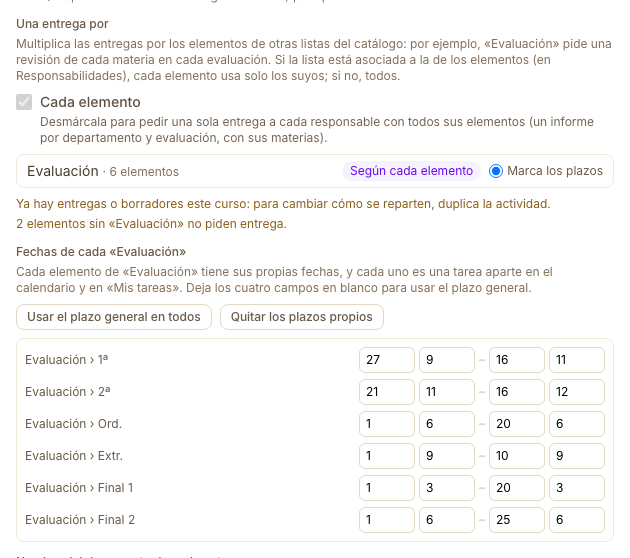
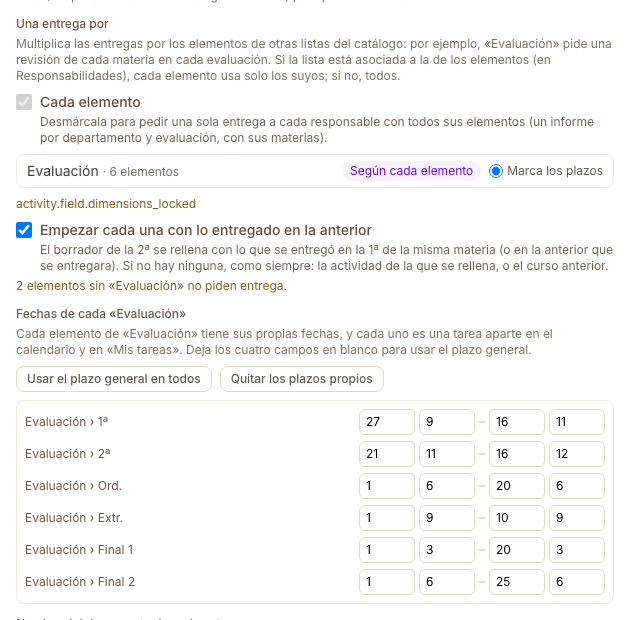
docs(activities): copia desde la evaluación anterior y tablas por evaluación en el manual, el CHANGELOG, las skills, la demo y las capturas

Changed region(s): [[0.0, 0.0305, 0.9651, 0.9749]]

diff --git a/src/Command/LoadDemoEvaluationsCommand.php b/src/Command/LoadDemoEvaluationsCommand.php
@@ -121,7 +121,7 @@ final class LoadDemoEvaluationsCommand extends Command
         ];
 
         $review = $this->reviewActivity($centre, $category, $section, $head, $subjects, $evals, $dates, $author);
-        $this->reportActivity($category, $section, $head, $subjects, $evals, $dates);
+        $this->reportActivity($category, $section, $head, $subjects, $evals, $dates, $review, $author);
         $this->minutesActivity($centre, $category, $section, $head);
         $this->em->flush();
 
@@ -171,12 +171,33 @@ final class LoadDemoEvaluationsCommand extends Command
         return $activity;
     }
 
-    /** @param array<string, array{int, int, int, int}> $dates */
-    private function reportActivity(ActivityCategory $category, DocumentSection $section, SpecificProfile $head, ListItem $subjects, ListItem $evals, array $dates): void
+    /**
+     * One per department and evaluation, filled in with the model «Informe de evaluación del departamento», whose table «Revisión de
+     * las materias» has a row per review of the department's subjects in that evaluation (their degree of compliance) and a column of
+     * its own to assess each.
+     *
+     * @param array<string, array{int, int, int, int}> $dates
+     */
+    private function reportActivity(ActivityCategory $category, DocumentSection $section, SpecificProfile $head, ListItem $subjects, ListItem $evals, array $dates, Activity $review, \App\Entity\Teacher $author): void
     {
         $folder = (new Folder())->setDocumentSection($section)->setName('Informes de evaluación de los departamentos')->setGroupByProfile(true);
         $folder->addUploadProfile($head);
         $this->em->persist($folder);
+
+        $reviewModel = $review->getFormModel() ?? throw new \LogicException('The review has no model.');
+        $model       = $this->models->create($reviewModel->getDocument()->getFolder(), 'Informe de evaluación del departamento', 'MD-10');
+        $table       = FormDefinition::newKey();
+        $this->models->saveDraft($model, ['version' => 1, 'sections' => [[
+            'key' => FormDefinition::newKey(), 'title' => 'Materias del departamento', 'numbered' => true, 'help' => '', 'children' => [],
+            'blocks' => [
+                ['key' => $table, 'type' => 'table', 'mode' => 'delivered', 'label' => 'Revisión de las materias', 'sourceModel' => $reviewModel->getId()->toRfc4122(), 'sourceScope' => 'own', 'showStatus' => true, 'columns' => [
+                    ['key' => FormDefinition::newKey(), 'label' => 'Cumplimiento (%)', 'fieldType' => 'number', 'sourceField' => 'cumplimiento', 'total' => 'avg'],
+                    ['key' => FormDefinition::newKey(), 'label' => 'Valoración del departamento', 'fieldType' => 'long'],
+                ]],
+                ['key' => FormDefinition::newKey(), 'type' => 'field', 'name' => 'conclusiones', 'fieldType' => 'long', 'label' => 'Conclusiones', 'required' => false, 'help' => ''],
+            ],
+        ]]], $model->getDraftVersion(), $author);
+        $this->models->sendToReview($model, $author, null);
 
         $activity = (new Activity())
             ->setCategory($category)
@@ -186,7 +207,9 @@ final class LoadDemoEvaluationsCommand extends Command
             ->setAutoComplete(true)
             ->setListItem($subjects)
             ->setSplitByElement(false)
+            ->setFormModel($model)
             ->setDimensions([$evals], 0);
+        $activity->setDeliverySource($table, $review);
         $this->setDates($category->getEducationalCentre(), $activity, $evals, $dates);
         $this->em->persist($activity);
     }

diff --git a/skills/screenshots.md b/skills/screenshots.md
@@ -85,7 +85,7 @@ The second centre is «CEIP Miguel Hernández» (`18700123`), empty, only so `mu
 | `capture-informes-shots.mjs` | `informes-indice`, `-cumplimiento`, `informes-pdf-*` (first PDF page via `pdftoppm`) | `04` | no |
 | `capture-plataforma-shots.mjs` | `plataforma-panel`, `-centros`, `-centro-editar`, `-docentes`, `-docente-editar`, `-suplantacion`, `plataforma-ajustes-*` (one per settings category), `plataforma-mantenimiento-{aviso,pagina,login}` | `10` | **yes, at the end**: turns maintenance mode on and puts it back off |
 | `capture-copias-shots.mjs` | `plataforma-copias`, `plataforma-copias-restaurar`, `plataforma-copias-restaurando` (the panel image `plataforma-panel` shows its card too) | `10` | **yes**: saves 5 backups in a throwaway folder and writes `var/restore/` by hand (removed at the end). Needs `APP_BACKUP_DIR` = `SHOTS_BACKUP_DIR` (an empty, disposable folder) set on the server **and** on the script, and the same `DATABASE_URL` env as the server (it runs `app:backup --password`). Never confirms a restore |
-| `capture-evaluaciones-shots.mjs` | `actividades-una-entrega-por-tarjeta` (the card of «Revisión de la programación»: «Plazos de cada «Evaluación»», «2ª: 0/13», the periods, the 2ª open «En curso»), `actividades-una-entrega-por-formulario` (its form: «Una entrega por» with «Evaluación», «Según cada elemento», «Marca los plazos», the lock and the table of dates) and `actividades-una-entrega-por-tareas` («Tus próximos pasos» of `n.bravo`: only the 2ª). Needs **`app:load-demo-module-programs` and then `php bin/console app:load-demo-evaluations`** after `app:load-demo-data` (an optional command, kept apart so the other chapters' activities do not change): «Revisión de la programación» (Materia × Evaluación, the evaluation marking the dates, delivered by filling the model «Revisión de la programación» in, teachers delivering, auto-complete; the 1ª — worked out from today, always over — delivered in Programación and Bases de Datos by `n.bravo` and Matemáticas by `p.sánchez`; the 2ª — always open — with a draft of Programación), «Informe de evaluación del departamento» (Materia gathered by head of department × Evaluación: Educación Física has none) and «Acta trimestral del departamento» (no element × the new list «Trimestre», free). Read-only | `08` | no |
+| `capture-evaluaciones-shots.mjs` | `actividades-una-entrega-por-tarjeta` (the card of «Revisión de la programación»: «Plazos de cada «Evaluación»», «2ª: 0/13», the periods, the 2ª open «En curso»), `actividades-una-entrega-por-formulario` (its form: «Una entrega por» with «Evaluación», «Según cada elemento», «Marca los plazos», the lock and the table of dates) `actividades-una-entrega-por-tareas` («Tus próximos pasos» of `n.bravo`: only the 2ª), `actividades-una-entrega-por-copia` (her draft of «Programación · 2ª», «Se ha rellenado con lo que se entregó en «1ª»») and `actividades-una-entrega-por-informe` (the table «Revisión de las materias» of the report of Informática for the 1ª, as `c.núñez`: «solo las de «1ª»», her six subjects, two delivered). Needs the `sqlite3` CLI and `SHOTS_DB` (it reads the ids of the pages it opens). Needs **`app:load-demo-module-programs` and then `php bin/console app:load-demo-evaluations`** after `app:load-demo-data` (an optional command, kept apart so the other chapters' activities do not change): «Revisión de la programación» (Materia × Evaluación, the evaluation marking the dates, delivered by filling the model «Revisión de la programación» in, teachers delivering, auto-complete; the 1ª — worked out from today, always over — delivered in Programación and Bases de Datos by `n.bravo` and Matemáticas by `p.sánchez`; the 2ª — always open — with a draft of Programación), «Informe de evaluación del departamento» (Materia gathered by head of department × Evaluación: Educación Física has none; filled with the model «Informe de evaluación del departamento», whose table «Revisión de las materias» reads the review — the compliance and an own assessment column) and «Acta trimestral del departamento» (no element × the new list «Trimestre», free). Read-only | `08` | no |
 | `capture-responsabilidades-shots.mjs` | `responsabilidades-*` (lists, tree, mobile, element panels, the list's «Listas asociadas» card `responsabilidades-listas-asociadas`, the filter «2 sin Evaluación» `responsabilidades-sin-evaluacion`, «Marcar por nombre» `responsabilidades-marcar-por-nombre`, move, profiles, assign, picker, Séneca previews) | `06` | **yes**, at the end (Séneca setup) |
 | `capture-modelos-shots.mjs` | the fillable-models chapter's images (`modelos-*`): the models list, the editor choosing a list as the source of options, the settings of a field «Adjuntos» (`modelos-editor-adjuntos`), the form filled in, its section 3 with the rating marked and two files attached (`modelos-escala-adjuntos`; it uploads `scripts/fixtures/pizarra-reunion.png` and `acta-coordinacion.pdf`), the delivered document and its annexes (`modelos-anexos`), the rows and copies taken from lists (`modelos-editor-filas-lista`, `modelos-editor-repetir-lista`, `modelos-filas-lista`, `modelos-copias-lista`), the formula editor (`modelos-editor-formula`, `modelos-editor-funciones`: it adds two columns to the draft's «Resultados por materia», writes the percentage with the «Calcular %» assistant and a slip «+ suma(2)», then opens the list of functions — only the draft changes, the activity fills the revision in force), the data explorer, the indicator condition picker, and the delete / move confirmations of Responsabilidades that count the delivered documents. Needs **`php bin/console app:load-demo-form-models` after `app:load-demo-data`** (an optional command, kept apart so the counts quoted by the other chapters do not change: it adds the model «Memoria de departamento» in force (five sections; the third, «Satisfacción y evidencias», has a rating scale and a field «Adjuntos»; the fourth a fixed table with a row per item of «Materia»; the fifth is repeated once per course of «Enseñanza › Formación Profesional» — no association is added: the other chapters show them), the profile «Responsable de memorias» (teacher `calidad`), the folders «Modelos rellenables» / «Memorias de departamento» and the activity «Memoria final de departamento») and the `sqlite3` CLI | `12` | **yes**: it fills in and delivers the form as `calidad` (run it after the read-only scripts and before `gestion`; rebuild the database to run it again) |
 | `capture-docentes-shots.mjs` | `responsabilidades-docentes-panel` (the panel of «Bases de Datos»: two teachers), `responsabilidades-docentes-arbol` (the «Materia» tree with the badges, «Sin docente» and «Quitar docentes fuera de curso (1)»), `actividades-docentes-casilla` (the form of the activity with the box checked) and `actividades-docentes-entregas` (the «Entregas que gestionas» of `c.núñez`, with the teachers under each name and «Sin docente asociado»). Needs **`php bin/console app:load-demo-module-programs` after `app:load-demo-data`** (an optional command, kept apart like `app:load-demo-form-models` so the models and activities the other chapters show do not change; **run it after `capture-modelos-shots.mjs`**, whose models list would otherwise show a second model). It adds the folder «Programaciones de los módulos» (in 8.1, next to «Programaciones didácticas»; the heads of department upload), the model «Programación didáctica del módulo» (chain: «Jefatura del departamento», limited to the element, then «Jefatura de estudios»; the folder has no review profile of its own) and the activity «Entrega de programaciones de los módulos» (element `Materia`, box checked), with «Programación» **delivered by `n.bravo`** (waiting for its first step, in the queue of `c.núñez` and not of `p.sánchez`), «Sistemas Informáticos» **delivered by `c.núñez`** (her step approved by delivering, waiting for `g.ortiz`, Jefatura de Estudios) and «Desarrollo Web en Entorno Servidor» **a draft of `r.serrano`**; the FFEOE is still to do, `c.núñez`'s own. Read-only (it only logs in as `direccion`, `n.bravo` and `c.núñez`). The script also re-takes nothing else: the tool bar of every list screen gained the «Sin docente» button, so a change to the tree screens means re-running `capture-responsabilidades-shots.mjs` | `06`, `08` | no |

diff --git a/CHANGELOG.md b/CHANGELOG.md
@@ -18,6 +18,8 @@ a [Semantic Versioning](https://semver.org/lang/es/).
 - Modelos de documento: las tablas pueden tener **una fila por entrega de otra actividad** («Datos de otras entregas»). En el editor, la opción «Una por entrega de otra actividad» de Filas pide el modelo que rellenan esas entregas, qué campos con nombre interno traer como columnas (casillas; cada una añade una columna de solo lectura con la insignia «De la entrega», con su unidad, sus decimales y su total al pie), qué entregas (las de los elementos asociados a quien entrega, o todas) y si se muestra el estado de cada una; las columnas propias se añaden como siempre. Cada actividad que usa el modelo elige, en el apartado nuevo **Datos de otras entregas** de su formulario, de qué actividad salen las filas: es obligatorio, avisa si esa actividad vence después y no deja elegir una que ya lea los datos de esta; la vista de la actividad lo dice, y avisa a quien la gestiona si falta. Al abrir el borrador se leen las entregas (estado, aprobación, docentes del elemento y los valores) y el botón **Actualizar** las vuelve a leer sin perder lo escrito en las columnas propias, con las celdas cambiadas parpadeando una vez. Lo leído no se puede cambiar desde el navegador, y una columna propia obligatoria solo se exige en las filas entregadas. Cuando una materia la piden dos departamentos, cada jefatura ve su propia entrega. Las comprobaciones del modelo avisan de una tabla sin modelo de entregas, con un campo que ya no existe, dentro de una sección que se repite o que formaría un ciclo entre modelos. Incluye una migración nueva (`Version20261125190000`, tabla `activity_delivery_source`). Falta todavía (siguiente fase) la comprobación al entregar, el PDF y el manual.
 - Responsabilidades: **listas asociadas**. Una lista declara con qué otras listas se asocian sus elementos (tarjeta **Listas asociadas** en el panel de la propia lista, con «Editar la lista»; «Materia» con «Departamento» y «Evaluación», por ejemplo), y cada elemento se asocia a uno o varios elementos de esas listas (o a un elemento intermedio, que vale por todas sus hojas). El selector «Asociado a» los ofrece agrupados por lista, más los perfiles sin lista; el árbol muestra las asociaciones propias como etiquetas. Un contador por lista asociada en la barra del árbol («2 sin Evaluación») filtra las hojas que no tienen ningún elemento de ella; solo sale cuando al menos la mitad de las hojas ya lo tiene, para no avisar en listas donde asociar es la excepción. La selección de varios elementos puede **añadir, sustituir las de esa lista o quitar** asociaciones, y **Marcar por nombre** marca de una vez todas las hojas con ese nombre (sin distinguir mayúsculas ni tildes) dentro de la lista o de una rama. Es la base de las entregas por materia y evaluación de la próxima fase.
 - Actividades: **una entrega por combinación** («Una entrega por» en el formulario). Una actividad multiplica sus entregas por hasta tres listas del catálogo: de una lista asociada a la de sus elementos, cada elemento usa solo sus valores (una revisión por materia y evaluación, en la que una materia de FP no pide la «Ord.»); de una no asociada, todos (un acta por departamento y trimestre). Una lista **marca los plazos**: cada uno de sus elementos tiene sus fechas, y cada evaluación es una tarea aparte en el calendario, «Mis actividades», los recordatorios y «Tus próximos pasos» (completar la 1ª no completa la 2ª). Desmarcando **«Cada elemento»** se pide una sola entrega a cada responsable con todos sus elementos, solo en las evaluaciones en las que tiene alguno (un informe por departamento y evaluación). La tarjeta agrupa las entregas por evaluación, con la en curso abierta y su progreso («2ª: 0/13 entregadas»); el formulario cuenta las entregas, avisa de los elementos sin valores y, en cuanto hay entregas o borradores en el curso, no deja cambiar cómo se reparten. Duplicar copia las listas y sus fechas. Sin listas en «Una entrega por», nada cambia. Incluye una migración nueva (`Version20261126150000`: tabla `activity_dimension`, `activity.split_by_element`, `document.slot_combination`, `activity_completion.combination` y la clave de la entrega a 400 caracteres). El comando opcional `app:load-demo-evaluations` crea las actividades de ejemplo para las capturas del manual.
+- Actividades: con «Una entrega por» y un modelo, **cada evaluación empieza con lo entregado en la anterior** de la misma materia (casilla «Empezar cada una con lo entregado en la anterior», marcada por defecto): la 2ª desde la 1ª, y Final 1 de un módulo desde la 2ª, nunca desde la «Extr.»; la página del borrador lo dice. Para la 1ª sirve la actividad de la que se rellena aunque no se reparta por evaluaciones (la programación entregada). Incluye una migración nueva (`Version20261126190000`, `activity.form_prefill_previous`).
+- Modelos de documento: una **tabla de entregas** cuyas dos actividades se reparten por la misma lista (las dos por «Evaluación») lee solo las entregas de la evaluación del documento: el informe de Informática de la 1ª muestra las revisiones de la 1ª de sus materias, lo dice en la cabecera («solo las de «1ª»») y, si no hay ninguna, se queda vacío en vez de mostrar todas. Las filas ya no repiten nombre: se nombran sin la evaluación y, si dos se llamarían igual, con quien las entrega («FP › 2ª — Jefe/a de Departamento Sanidad»). El aviso de «Datos de otras entregas» compara las fechas evaluación por evaluación.
 - Los datos de demostración incluyen los docentes de las materias de Informática y, con el nuevo comando opcional `app:load-demo-module-programs`, la actividad «Entrega de programaciones de los módulos» que los usa, con su cadena de dos pasos: la jefatura de cada departamento (limitada al elemento) y jefatura de estudios.
 
 ### Changed

diff --git a/skills/forms.md b/skills/forms.md
@@ -77,6 +77,11 @@ trash filter makes loading it throw, `Activity::getDeliverySources()` catches it
   `FormListOptions::belongsToSlot()`, except when the source is delivered by the same profile of a list: then the slot's own ROW must be
   who delivers — a subject shared by two departments shows each head their own) → `inject()` (pure: keeps own cells by `_key`, rows in read
   order) → stored in `data.tables` + `data.sources[tableKey]`. Row key = `Uuid::v5(NAMESPACE, slotKey)`.
+- **Shared dimensions** (phase 0e3): when both activities split by a list with the same ROOT (`sharedValues()`), only the source slots
+  with this document's value at that position are candidates, whatever the scope; `sources` gains `match` {rootId: valueId} and `within`
+  (the values' names, shown in the header «solo las de «1ª»»), and with no match the table is EMPTY (`inScope(…, fallBack: false)`, never
+  `assumedAll`). Row label (`rowLabel()`): the slot's name without the shared values, plus « — ownerLabel» only when two rows of the
+  table would read the same (a grouped source slot, whose name is only values, is named after its owner).
 - **The definition gets its rows only from the data** (`rowsFromData()`), called in `FormListOptions::expand()` and `delivered()`: every
   path that expands a draft or a revision sees them. `FormDefinition::hasGivenRows()` = fixed or delivered (normalizer rows, resolver).
 - `FormDataNormalizer` keeps a shape-checked `sources` (`clean()`); **`save()` replaces the browser's `sources` and source cells with the
@@ -232,6 +237,11 @@ because a script cannot read them: add a new icon in both places; the Spanish la
   against the new definition: values travel by the identity KEY, so what the new revision still has is kept; `lostOnUpdate()` lists (labels)
   what has no place any more and the page asks for confirmation. A mandatory revision whose date has come makes `deliver()` fail with
   `error.update_required`; before the date it is only a warning.
+- **Pre-filling from the previous value** (`FormPrefiller::previousValue()`, first of all when `Activity::formPrefillPrevious`, default
+  true): with dimensions, the same slot key with the dated dimension's (else the first's) value replaced by each earlier value in the
+  list's order, this cycle, the first one delivered (`from.kind` = `previous_value`, label = the value's name). Values the element lacks
+  have no submission, so they skip themselves. Looking in `formPrefillSource`, a source WITHOUT dimensions is matched on the key's first
+  four parts (the 1ª of a subject's review from its programme).
 - **Pre-filling** (`FormPrefiller`): a new draft starts from `Activity::formPrefillSource` (latest delivered of the SAME slot key there) or,
   failing that, from the same slot's latest earlier cycle. Same model → by key; different models → by the field's internal `name` and the
   same `fieldType` only (a number never goes into a text field). `FormSubmission::prefilledFrom` remembers the origin; the page offers "Volver

diff --git a/docs/manual/08-actividades.md b/docs/manual/08-actividades.md
@@ -341,6 +341,24 @@ actividades», entre las próximas.
 
 ![«Tus próximos pasos» de Noelia Bravo: la 2ª de «Programación» y de «Bases de Datos», con su fecha; la 1ª ya entregada no sale](img/actividades-una-entrega-por-tareas.png)
 
+**Empezar desde la evaluación anterior.** Con un modelo de documento, la casilla **Empezar cada una con lo
+entregado en la anterior** (marcada por defecto) hace que el borrador de la 2ª de una materia salga
+relleno con lo que se entregó en la 1ª de esa misma materia; si la 1ª no se entregó, con la anterior que
+sí. Se cuenta entre las evaluaciones de cada materia: el de Final 1 de un módulo de FP sale de la 2ª,
+nunca de la «Extr.». La página del borrador lo dice («Se ha rellenado con lo que se entregó en «1ª»») y
+ofrece «Volver a copiar» y «Empezar desde cero», como cualquier relleno. Si no hay nada anterior, se usa lo
+de siempre: la actividad de la que se rellena (para la 1ª, por ejemplo, la programación entregada) o el
+curso anterior.
+
+![Borrador de «Programación · 2ª» con el aviso «Se ha rellenado con lo que se entregó en «1ª»» y los botones «Volver a copiar» y «Empezar desde cero»](img/actividades-una-entrega-por-copia.png)
+
+**Informes que leen las entregas de su evaluación.** Si el modelo del informe tiene una tabla con una
+fila por entrega de otra actividad (ver [Modelos de documento](12-modelos-de-documento.md)) y las dos actividades
+se reparten por la misma lista (las dos por «Evaluación»), cada informe lee **solo las entregas de su
+evaluación**. El de la 1ª de Informática muestra las revisiones de la 1ª de las materias de Informática.
+
+![Tabla «Revisión de las materias» del informe de Informática de la 1ª: «solo las de «1ª»», las seis materias del departamento con su estado, el cumplimiento de las entregadas, la valoración del departamento y la media](img/actividades-una-entrega-por-informe.png)
+
 En los datos de demostración, el comando opcional `php bin/console app:load-demo-evaluations` crea las
 tres actividades del ejemplo. La 1ª de la revisión ya está entregada en Programación, Bases de Datos y
 Matemáticas, y la 2ª está en curso, con un borrador de Programación.
